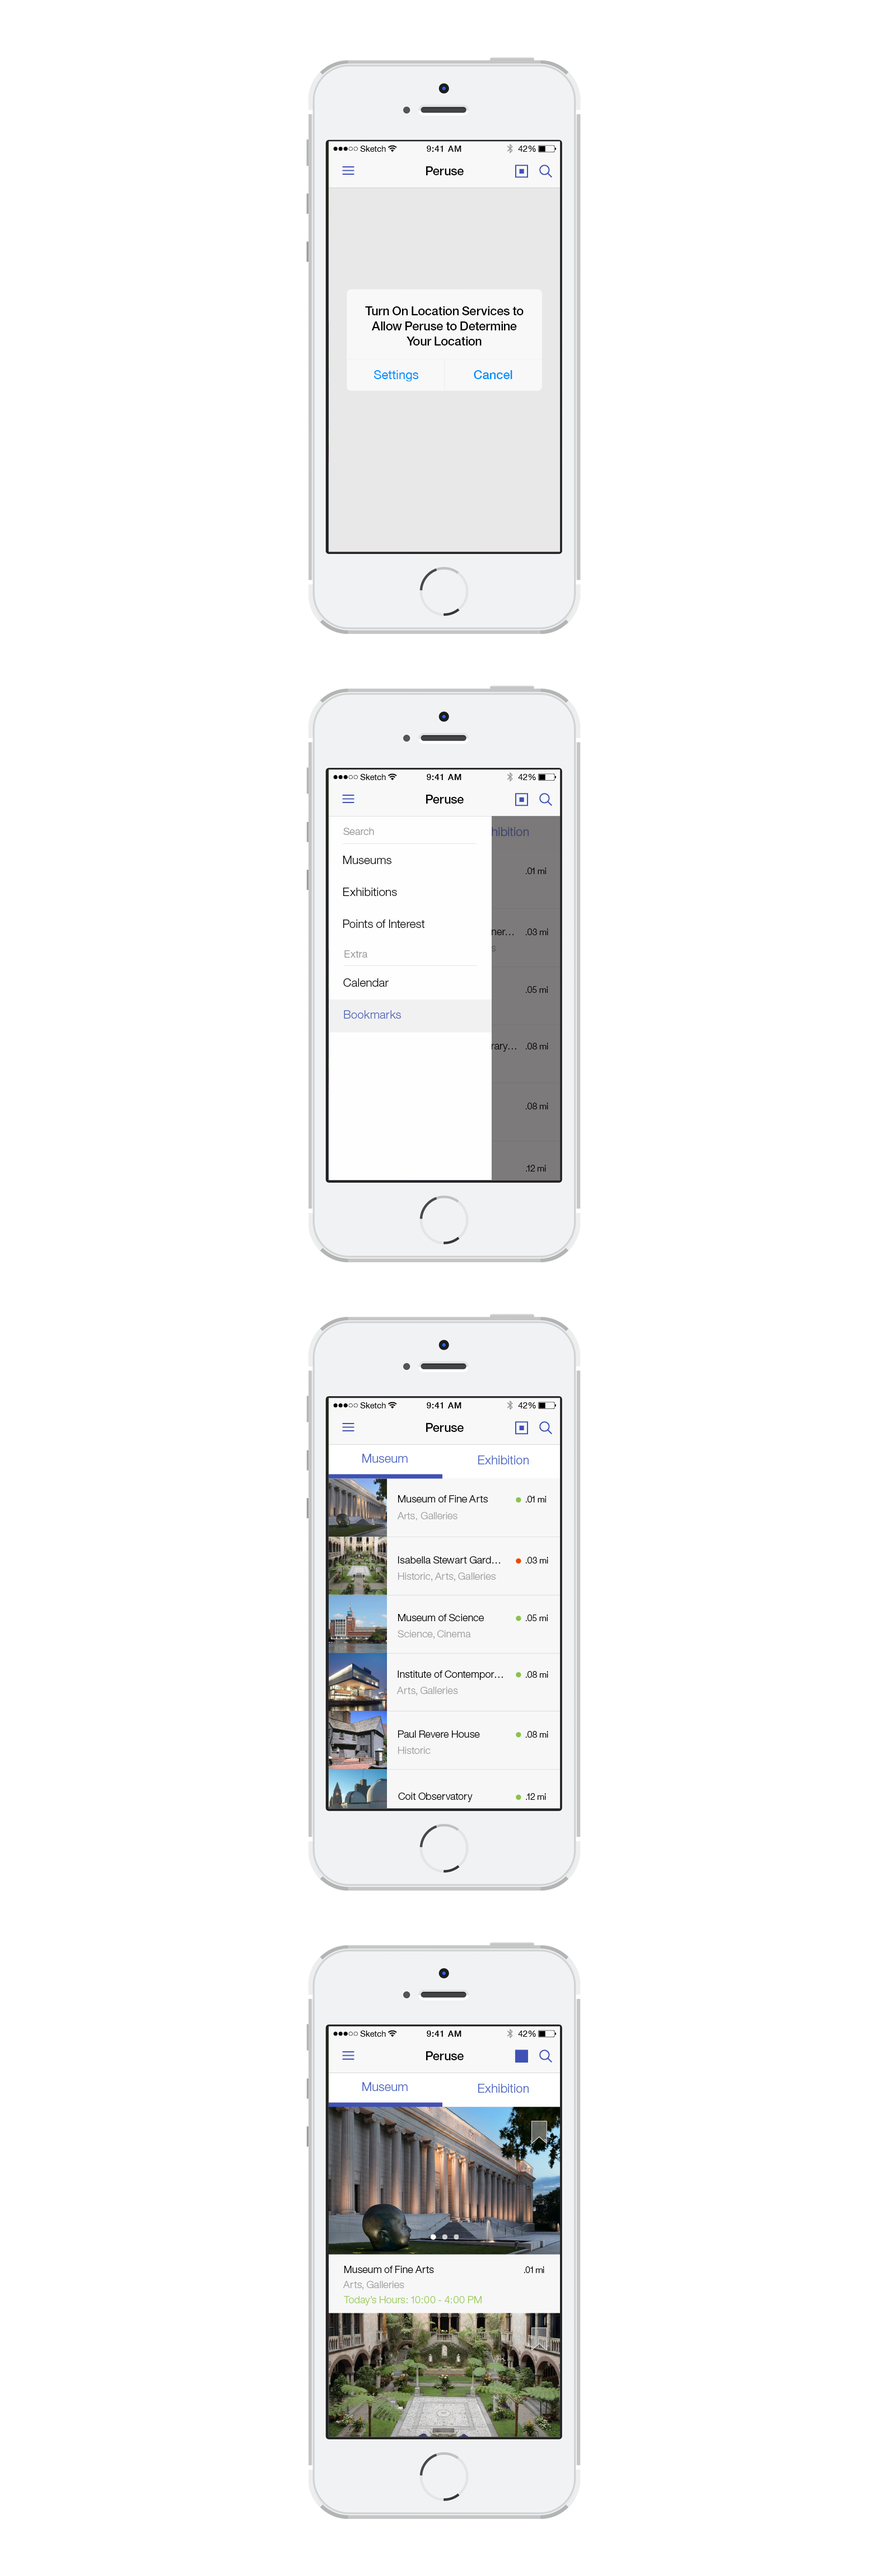
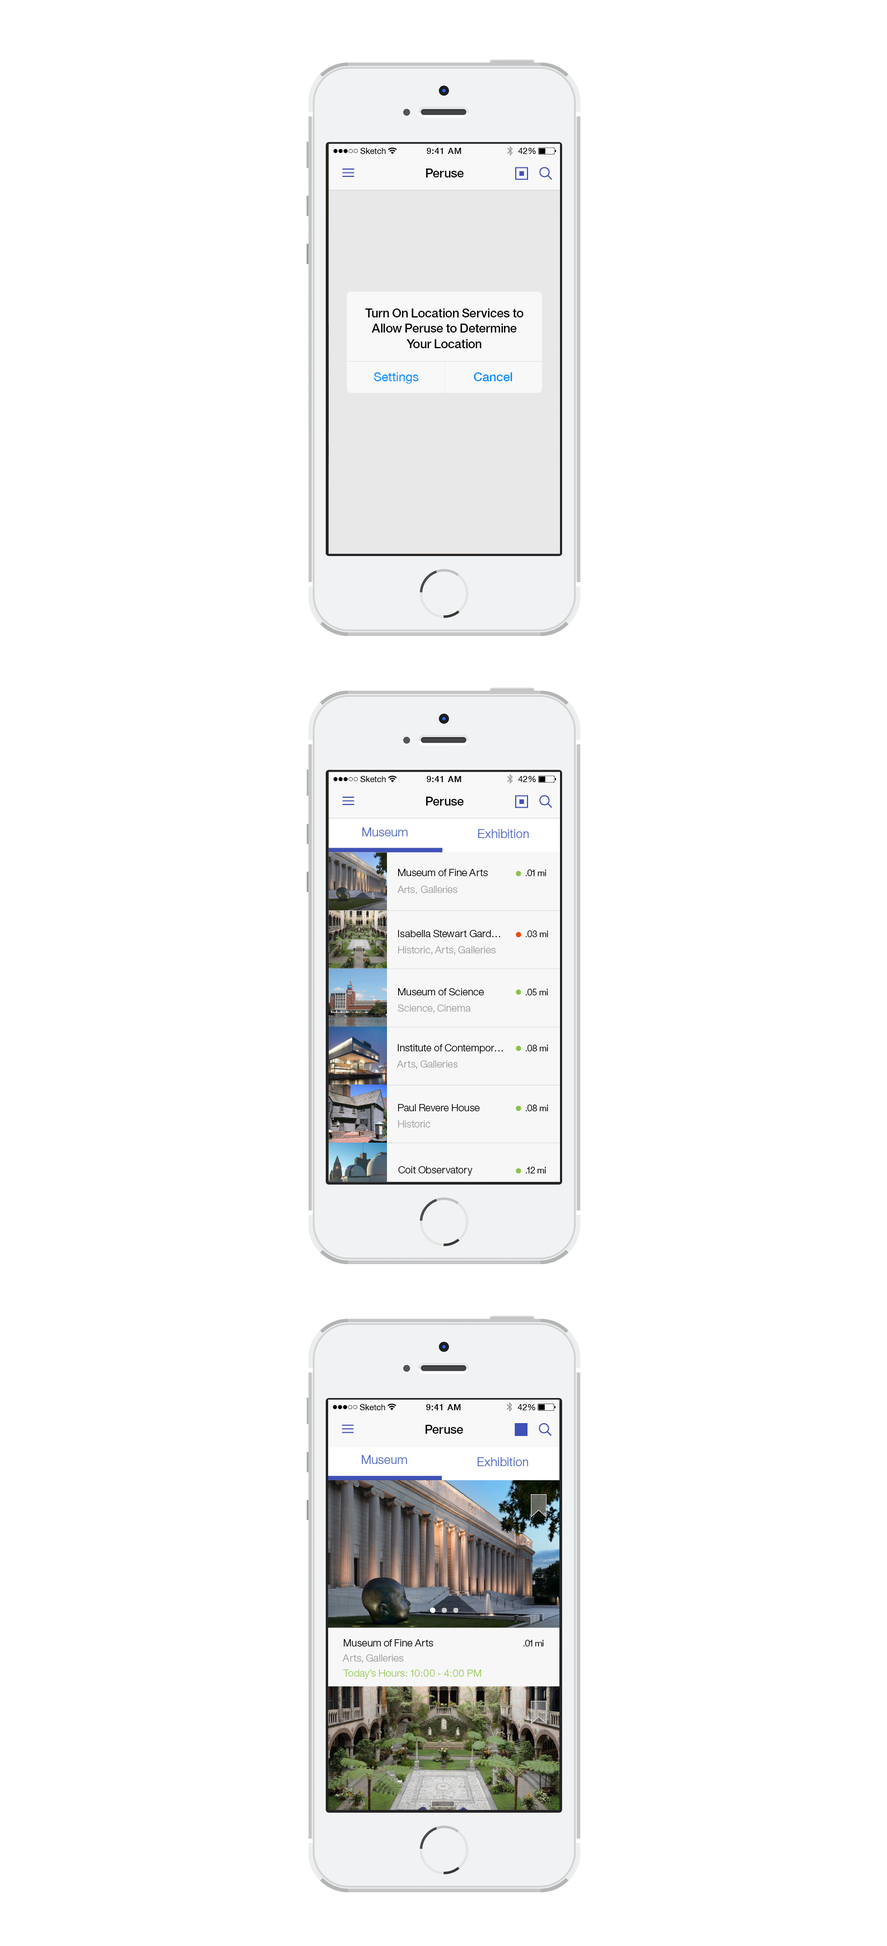
peruse

diff --git a/projects/proj12/index.html b/projects/proj12/index.html
@@ -35,6 +35,8 @@
                 <img src="peruse2.png">
                 Once the user has selected a museum, they have access to visitor information and can see what's nearby.
                 <img src="peruse3.png">
+                The user has access to their bookmarks as well as a calendar showing upcoming exhibitions.
+                <img src="peruse5.png">
                 If the user decides to create a route, a form and voice activated GPS will guide them to all of their destinations.
                 <img src="peruse4.png">
                 <strong>Reflection</strong>
